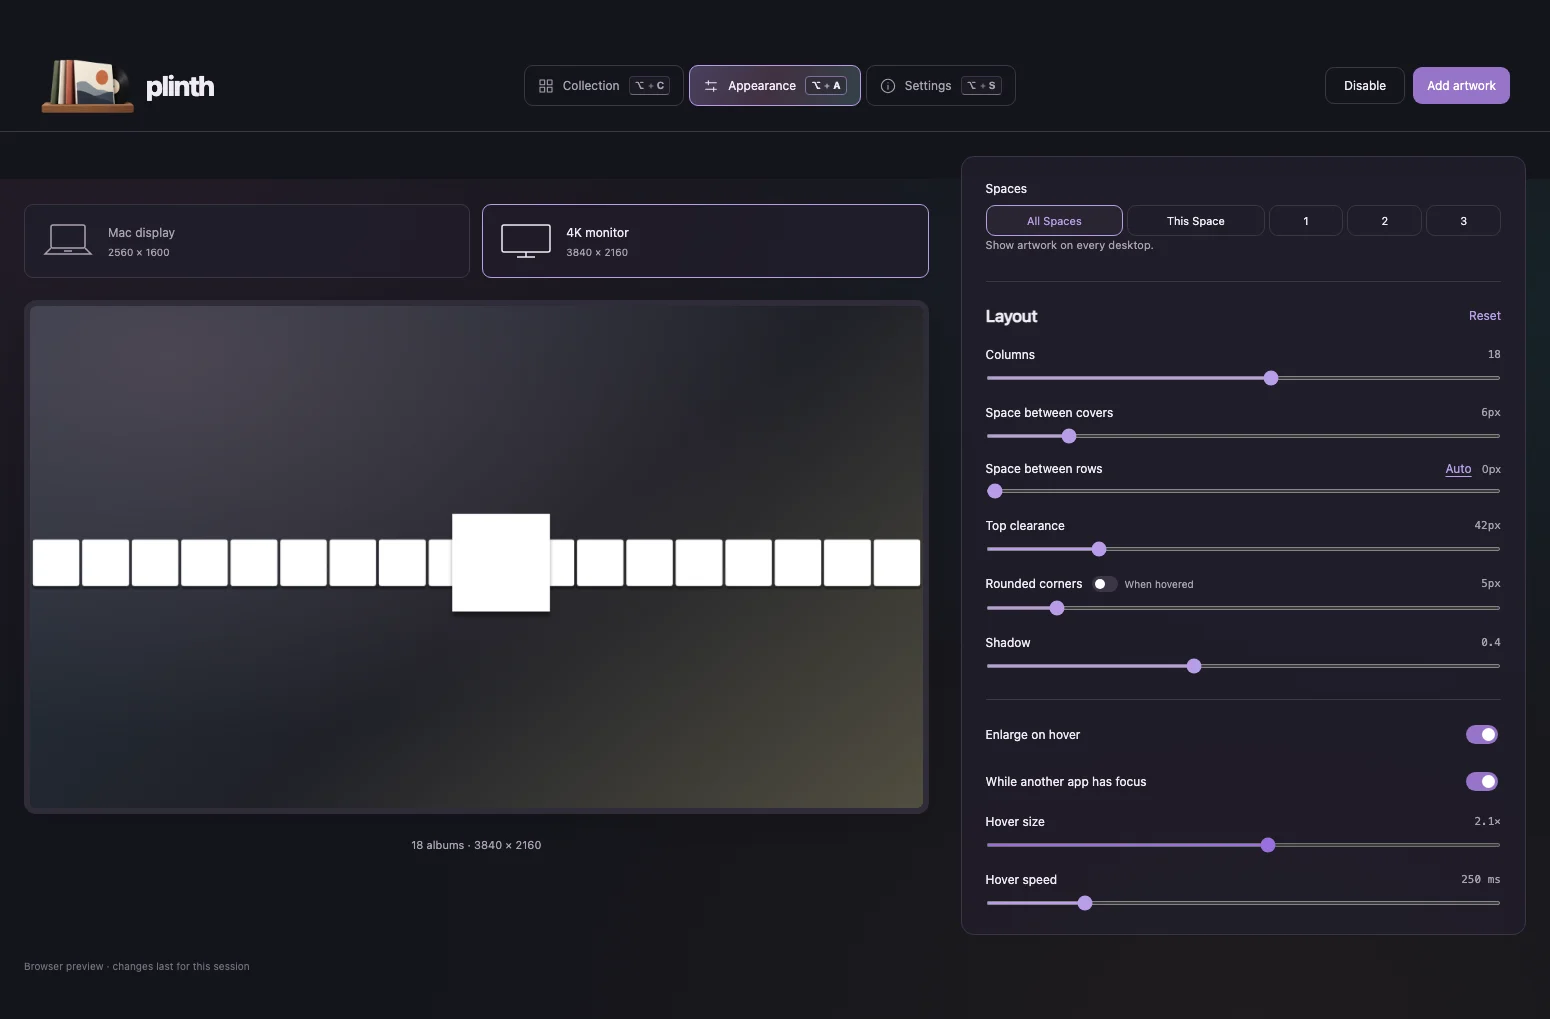
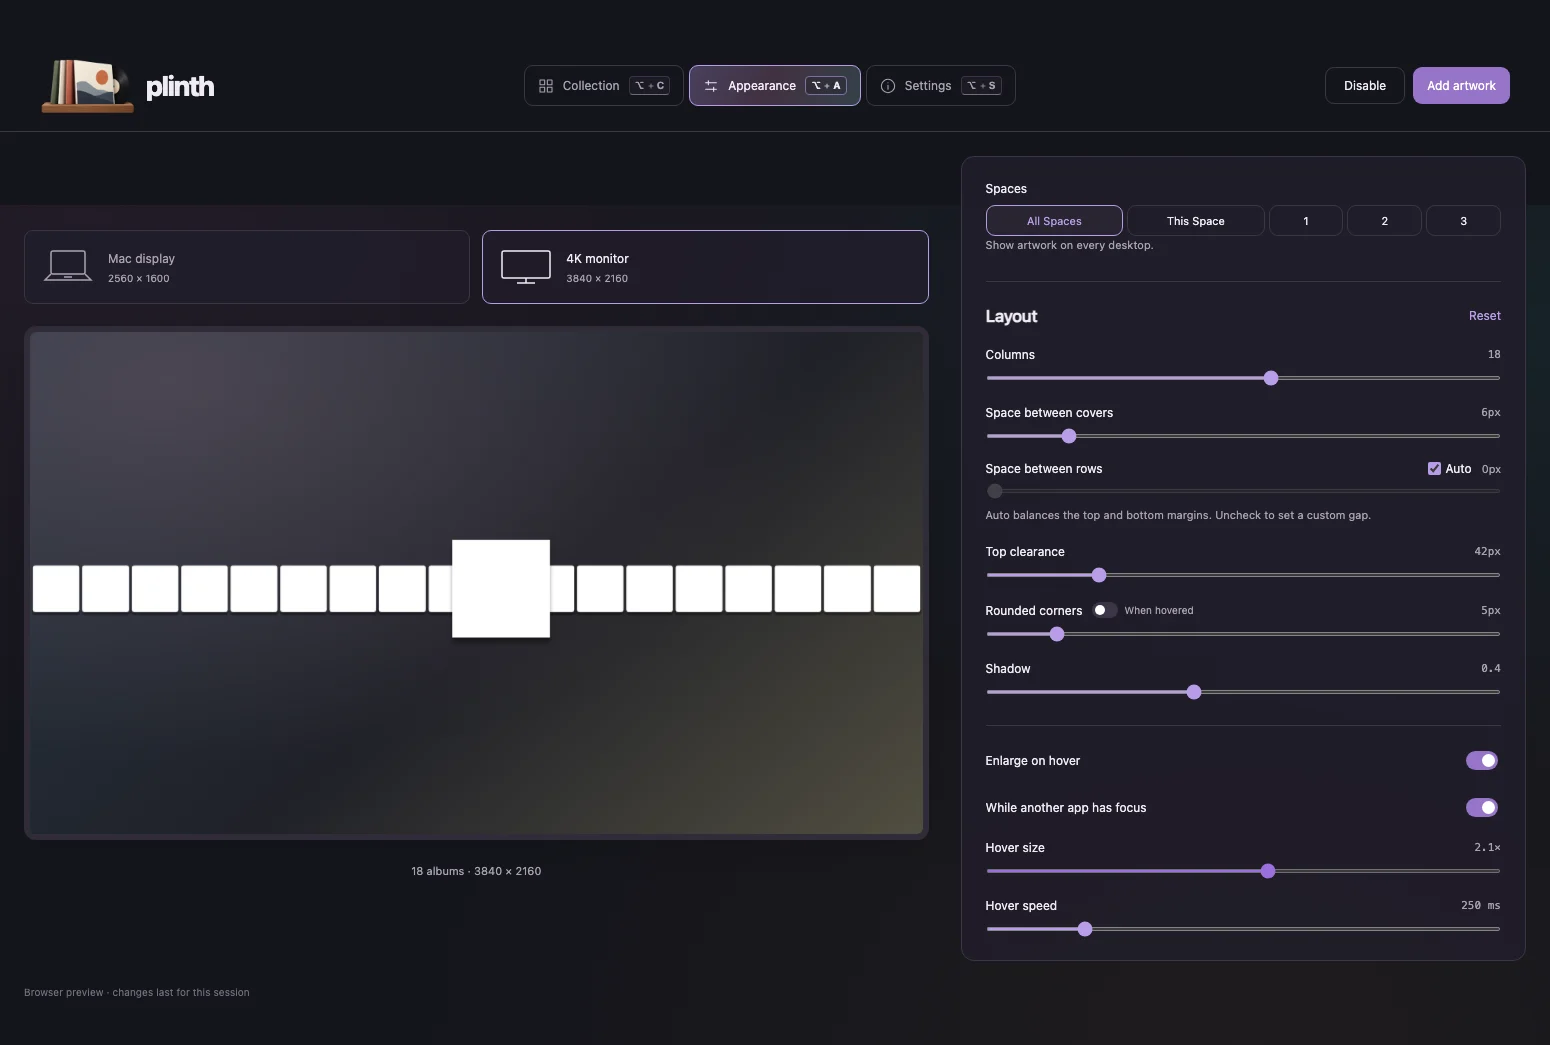
Require disabling automatic row spacing before customizing gap

diff --git a/src/App.svelte b/src/App.svelte
@@ -206,7 +206,7 @@
     </div></div><p class="preview-note">{enabled.length} albums · {screen.pixels}</p></section>
     <section class="controls panel"><div class="spaces-field"><span id="spaces-label">Spaces</span><div class="space-options" onpointerenter={()=>void refreshSpaces()} role="group" aria-labelledby="spaces-label"><button aria-pressed={settings.allSpaces&&!settings.targetSpace} disabled={spaceSaving} onclick={()=>void chooseSpace('all')}>All Spaces</button><button aria-pressed={!settings.allSpaces&&!settings.targetSpace} disabled={spaceSaving} onclick={()=>void chooseSpace('current')}>This Space</button>{#each [1,2,3] as number}<button aria-label={`Space ${number}`} aria-pressed={settings.targetSpace===number} disabled={spaceSaving||!availableSpaces.includes(number)} title={availableSpaces.includes(number)?`Desktop ${number}`:`Create Desktop ${number} in Mission Control`} onclick={()=>void chooseSpace(number)}>{number}</button>{/each}</div></div><p class="field-note">{spacesReason?spacesReason:settings.targetSpace?(availableSpaces.includes(settings.targetSpace)?`Keep artwork on Desktop ${settings.targetSpace}.`:`Desktop ${settings.targetSpace} is unavailable. Create it in Mission Control or choose another option.`):settings.allSpaces?'Show artwork on every desktop.':'Use the active desktop when artwork is enabled.'}</p><div class="control-divider"></div><div class="panel-heading" style="margin-top:24px"><h2>Layout</h2><button class="text-button" onclick={resetLayout}>Reset</button></div>
     {#each [{key:'columns',label:'Columns',min:3,max:30,step:1,unit:''},{key:'gap',label:'Space between covers',min:0,max:40,step:1,unit:'px'},{key:'top',label:'Top clearance',min:0,max:200,step:1,unit:'px'},{key:'radius',label:'Rounded corners',min:0,max:40,step:1,unit:'px'},{key:'shadow',label:'Shadow',min:0,max:1,step:.05,unit:''}] as control}<div class="slider-field"><span><label for={`layout-${control.key}`}>{control.label}</label>{#if control.key==='radius'}<label class="hover-corners-toggle"><input class="switch" type="checkbox" checked={layout.roundedOnHover??false} onchange={(e)=>changeLayout('roundedOnHover',e.currentTarget.checked)}/>When hovered</label>{/if}<output>{layout[control.key as keyof Layout]}{control.unit}</output></span><input id={`layout-${control.key}`} type="range" aria-label={control.label} min={control.min} max={control.max} step={control.step} value={layout[control.key as keyof Layout]} oninput={(e)=>changeLayout(control.key as keyof Layout,Number(e.currentTarget.value))}/></div>{#if control.key==='gap'}
-    <div class="row-spacing-field"><div><label for="row-spacing">Space between rows</label><button class="text-button" aria-label="Automatic row spacing" aria-pressed={layout.rowGap===null} onclick={()=>changeLayout('rowGap',null)}>Auto</button><output for="row-spacing">{Math.round(rowSpacing.rowGap)}px</output></div><input id="row-spacing" aria-label="Space between rows" type="range" min="0" max={Math.max(80,Math.ceil(desktopSpacing({...layout,rowGap:null},screen.width,screen.height,enabled.length,screen.menuBarHeight).rowGap),layout.rowGap??0)} step="1" value={rowSpacing.rowGap} oninput={(e)=>changeLayout('rowGap',Number(e.currentTarget.value))}/></div>
+    <div class="row-spacing-field"><div><label for="row-spacing">Space between rows</label><label class="auto-row-spacing"><input type="checkbox" aria-label="Automatic row spacing" checked={layout.rowGap===null} onchange={(e)=>changeLayout('rowGap',e.currentTarget.checked?null:Math.round(rowSpacing.rowGap))}/>Auto</label><output for="row-spacing">{Math.round(rowSpacing.rowGap)}px</output></div><input id="row-spacing" aria-label="Space between rows" aria-describedby="row-spacing-note" disabled={layout.rowGap===null} type="range" min="0" max={Math.max(80,Math.ceil(desktopSpacing({...layout,rowGap:null},screen.width,screen.height,enabled.length,screen.menuBarHeight).rowGap),layout.rowGap??0)} step="1" value={rowSpacing.rowGap} oninput={(e)=>changeLayout('rowGap',Number(e.currentTarget.value))}/><p id="row-spacing-note" class="field-note">Auto balances the top and bottom margins. Uncheck to set a custom gap.</p></div>
     {/if}{/each}
     <div class="control-divider"></div><label class="toggle-row"><span>Enlarge on hover</span><input class="switch" type="checkbox" bind:checked={settings.hoverEnabled} onchange={persist}/></label><label class="toggle-row"><span>While another app has focus</span><input class="switch" type="checkbox" disabled={!settings.hoverEnabled} bind:checked={settings.hoverInBackground} onchange={persist}/></label><label class="slider-field"><span>Hover size<output>{settings.hoverScale.toFixed(1)}×</output></span><input aria-label="Hover size" onpointerdown={startHoverPreview} type="range" min="1" max="3" step=".1" bind:value={settings.hoverScale} oninput={persist}/></label><label class="slider-field"><span>Hover speed<output>{Math.round(250/(settings.hoverSpeed??1))} ms</output></span><input aria-label="Hover speed" onpointerdown={startHoverPreview} type="range" min="83" max="1000" step="1" value={Math.round(250/(settings.hoverSpeed??1))} aria-valuetext={`${Math.round(250/(settings.hoverSpeed??1))} milliseconds`} oninput={(event)=>{settings.hoverSpeed=Math.min(3,250/Number(event.currentTarget.value));persist()}}/></label></section></div>
    {:else if page==='history'}

diff --git a/src/app.css b/src/app.css
@@ -38,7 +38,7 @@ dialog{width:min(510px,calc(100vw - 40px));padding:26px;border:1px solid var(--l
 
 .history-page{max-width:1000px;margin:0 auto;padding:12px 0 30px}.history-heading{display:flex;justify-content:space-between;align-items:center;gap:24px;margin-bottom:25px}.history-heading h1{font-size:27px}.history-heading p{color:var(--muted);font-size:12px;margin-top:8px}.history-controls{display:flex;gap:8px;flex-wrap:wrap}.history-controls button{font-size:12px;gap:7px;padding:9px 11px}.history-controls kbd{color:var(--muted);font-size:9px;white-space:nowrap}.history-note{color:var(--muted);font-size:11px;line-height:1.6;margin-bottom:20px}.history-list{list-style:none;padding:0;margin:0;border:1px solid var(--line);border-radius:12px;overflow:hidden}.history-list>li{display:flex;gap:16px;padding:22px;align-items:flex-start;background:var(--paper)}.history-list>li+li{border-top:1px solid var(--line)}.history-list>li.current{background:color-mix(in srgb,var(--accent) 9%,var(--paper-strong))}.history-marker{flex-shrink:0;display:grid;place-items:center;width:30px;height:30px;border:1px solid var(--line);border-radius:50%;color:var(--muted)}.current .history-marker{color:var(--accent);border-color:var(--accent)}.history-content{flex:1;min-width:0}.history-entry-heading{display:flex;gap:10px;align-items:center;flex-wrap:wrap}.history-entry-heading h2{font-size:13px;line-height:1.5;font-weight:550;letter-spacing:0}.history-current{color:var(--accent);border:1px solid color-mix(in srgb,var(--accent) 40%,transparent);border-radius:20px;padding:2px 7px;font-size:9px}.history-meta{display:flex;flex-wrap:wrap;gap:6px 14px;color:var(--muted);font-size:10px;margin-top:7px}.history-content details,.history-detail{margin-top:12px;color:var(--muted);font-size:11px;line-height:1.7;overflow-wrap:anywhere}.history-content summary{cursor:pointer}.history-content details ul{padding-left:17px;margin:8px 0 0}.history-restore{flex-shrink:0;font-size:11px;padding:7px 10px}.history-restore svg{width:14px;height:14px}.history-restore:disabled{opacity:.35}@media(max-width:850px){header{flex-wrap:wrap;height:auto;padding-block:18px}header nav{order:3;width:100%;justify-content:center}.history-heading{align-items:flex-start;flex-direction:column}.history-list>li{padding:16px;gap:10px}.history-controls kbd{display:none}}@media(max-width:520px){.history-marker{display:none}.history-restore{padding:7px}.history-restore svg{display:none}}
 
-.row-spacing-field{display:grid;gap:8px;margin:18px 0}.row-spacing-field>div{display:flex;align-items:center;gap:10px}.row-spacing-field label{flex:1}.row-spacing-field output{font-size:11px;color:var(--muted)}.row-spacing-field button[aria-pressed=true]{text-decoration:underline;text-underline-offset:3px}.row-spacing-field input{width:100%}
+.row-spacing-field{display:grid;gap:8px;margin:18px 0}.row-spacing-field>div{display:flex;align-items:center;gap:10px}.row-spacing-field label{flex:1}.row-spacing-field output{font-size:11px;color:var(--muted)}.row-spacing-field .auto-row-spacing{display:flex;align-items:center;gap:5px;flex:0 0 auto;cursor:pointer}.auto-row-spacing input{margin:0;accent-color:var(--accent)}.row-spacing-field input[type=range]:disabled{opacity:.4;cursor:default}
 
 .add-artwork kbd{color:inherit;border-color:#ffffff45}
 

diff --git a/tests/spacing.spec.ts b/tests/spacing.spec.ts
@@ -20,23 +20,27 @@ test('automatic row spacing balances the menu-bar and screen-bottom gaps',()=>{
 
 test('preview shares balanced spacing and manual spacing can be undone or reset',async({page})=>{
  await page.goto('/?demo=1');await page.getByRole('button',{name:'Appearance',exact:true}).click()
- const auto=page.getByRole('button',{name:'Automatic row spacing',exact:true})
+ const auto=page.getByRole('checkbox',{name:'Automatic row spacing',exact:true})
  const assertBalanced=async(screenWidth:number)=>{
   const surface=(await page.locator('.screen-preview').boundingBox())!
   const cells=await page.locator('.preview-render .desktop-cell').evaluateAll(cells=>cells.map(cell=>{const r=cell.getBoundingClientRect();return {top:r.top,bottom:r.bottom}}))
   const scale=surface.width/screenWidth
   expect(Math.min(...cells.map(cell=>cell.top))-surface.y-24*scale).toBeCloseTo(surface.y+surface.height-Math.max(...cells.map(cell=>cell.bottom)),0)
  }
- await expect(auto).toHaveAttribute('aria-pressed','true');await assertBalanced(1280)
- await page.getByRole('slider',{name:'Space between rows',exact:true}).fill('27')
- await expect(auto).toHaveAttribute('aria-pressed','false')
+ await expect(auto).toBeChecked();await assertBalanced(1280)
+ const slider=page.getByRole('slider',{name:'Space between rows',exact:true})
+ await expect(slider).toBeDisabled()
+ await auto.uncheck();await expect(slider).toBeEnabled()
+ await slider.fill('27')
+ await expect(auto).not.toBeChecked()
  await expect(page.locator('.desktop-grid')).toHaveCSS('--row-gap','27px')
- await page.keyboard.press('Meta+z');await expect(auto).toHaveAttribute('aria-pressed','true');await assertBalanced(1280)
- await page.keyboard.press('Meta+Shift+z');await expect(auto).toHaveAttribute('aria-pressed','false')
+ await page.keyboard.press('Meta+z');await expect(auto).toBeChecked();await expect(slider).toBeDisabled();await assertBalanced(1280)
+ await page.keyboard.press('Meta+Shift+z');await expect(auto).not.toBeChecked()
  await auto.click();await assertBalanced(1280)
  await page.getByRole('button',{name:/4K monitor/}).click();await assertBalanced(1920)
- await page.getByRole('slider',{name:'Space between rows',exact:true}).fill('12')
- await page.getByRole('button',{name:'Reset',exact:true}).click();await expect(auto).toHaveAttribute('aria-pressed','true')
+ await expect(slider).toBeDisabled();await auto.uncheck()
+ await slider.fill('12')
+ await page.getByRole('button',{name:'Reset',exact:true}).click();await expect(auto).toBeChecked()
 })
 
 test('opacity and surrounding-cover dimming controls and effects are absent',async({page})=>{

diff --git a/tests/square-spacing.spec.ts b/tests/square-spacing.spec.ts
@@ -27,6 +27,7 @@ test('horizontal and manual row spacing are independent and cells remain square'
  for(const profile of [/Mac display/,/4K monitor/]){
   await page.getByRole('button',{name:profile}).click()
   await page.getByRole('slider',{name:'Columns',exact:true}).fill('6')
+  await page.getByRole('checkbox',{name:'Automatic row spacing',exact:true}).uncheck()
   for(const rowGap of ['0','27','80']){
    await page.getByRole('slider',{name:'Space between rows',exact:true}).fill(rowGap)
    for(const gap of ['0','6','40']){

diff --git a/README.md b/README.md
@@ -38,7 +38,7 @@ Album clicks automatically open a saved HTTPS Apple Music link (`music.apple.com
 
 Collection and History scroll to show every album and saved state. The desktop album list does not scroll; albums beyond its visible area are clipped. Appearance controls and album editors remain scrollable when needed.
 
-Space between rows defaults to **Auto**, which balances the gap below the menu bar with the gap below the last row using each display’s size. A single row is centered vertically. Crowded layouts use zero spacing instead of overlapping; increase Columns if the albums cannot fit. Existing saved numeric spacing remains manual; choose Auto or Layout Reset to use balanced spacing. Artwork opacity and surrounding-cover dimming are no longer applied.
+Space between rows defaults to **Auto**, which balances the gap below the menu bar with the gap below the last row using each display’s size. A single row is centered vertically. Crowded layouts use zero spacing instead of overlapping; increase Columns if the albums cannot fit. The gap slider is disabled while Auto is checked; uncheck Auto to set a custom gap. Existing saved numeric spacing remains manual; check Auto or use Layout Reset to restore balanced spacing. Artwork opacity and surrounding-cover dimming are no longer applied.
 
 The desktop is a transparent native window above the wallpaper and desktop icons, below ordinary windows. It receives clicks and does not scroll. Cover width and height use the same calculated size, so increasing cover spacing shrinks square covers. Incomplete rows are centered; use the Columns setting to fit more covers on screen. Covers enlarge without activating Plinth; this does not draw over your foreground apps. Restart Plinth after changing monitor arrangements. Add Plinth in **System Settings → General → Login Items** if you want it to start at login.
 
